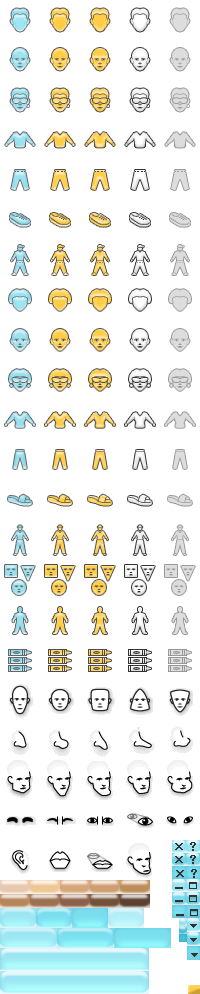
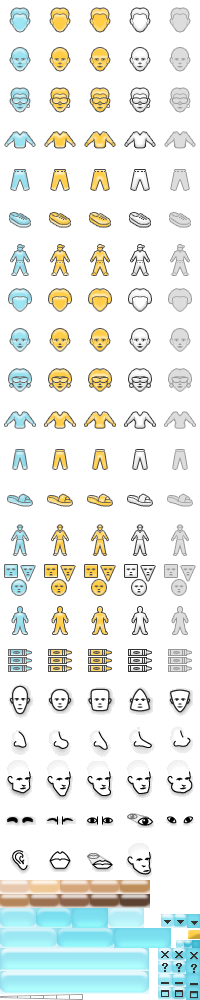
Updated sprite

Changed region(s): [[0.0, 0.0312, 1.0, 1.0]]

diff --git a/Resources/changeme/changeme.css b/Resources/changeme/changeme.css
@@ -82,55 +82,46 @@ body {
 }
 
 .changeme .titlebar .buttons .button {
-  display:none;
+  display:inline-block;
   margin-left:1px;
   width:14px;
   height:13px;
   border:1px solid #666;
   border-radius:3px;
   background-image:url(changeme.png);
+  background-position-x:-158px;
   z-index:2;
 }
 
 .changeme .titlebar .buttons .button[data-id="close"] {
-  display:inline-block;
-  background-position:-172px -840px;
-
+  background-position-y:-948px;
 }
 
 .changeme .titlebar .buttons .button[data-id="help"] {
-  display:inline-block;
-  background-position:-186px -840px;
+  background-position-y:-961px;
+}
+
+.changeme .titlebar .buttons .button[data-id="bar"],
+.changeme .titlebar .buttons .button[data-id="full"] {
+  display:none;
 }
 
 .changeme[data-state="full"] .titlebar .buttons .button[data-id="bar"] {
   display:inline-block;
-  background-position:-172px -879px;
+  background-position-y:-974px;;
 }
 
 .changeme[data-state="bar"] .titlebar .buttons .button[data-id="full"] {
   display:inline-block;
-  background-position:-186px -879px;
+  background-position-y:-987px;
 }
 
-.changeme .titlebar .buttons .button:hover[data-id="close"],
-.changeme .titlebar .buttons .button:hover[data-id="help"] {
-  background-position-y:-853px;
+.changeme .titlebar .buttons .button:hover {
+  background-position-x:-172px;
 }
 
-.changeme .titlebar .buttons .button:hover:active[data-id="close"],
-.changeme .titlebar .buttons .button:hover:active[data-id="help"] {
-  background-position-y:-866px;
-}
-
-.changeme .titlebar .buttons .button:hover[data-id="bar"],
-.changeme .titlebar .buttons .button:hover[data-id="full"] {
-  background-position-y:-892px;
-}
-
-.changeme .titlebar .buttons .button:hover:active[data-id="bar"],
-.changeme .titlebar .buttons .button:hover:active[data-id="full"] {
-  background-position-y:-905px;
+.changeme .titlebar .buttons .button:hover:active {
+  background-position-x:-186px;
 }
 
 .areas {
@@ -293,7 +284,7 @@ body {
   width:12px;
   height:9px;
   background-image:url(changeme.png);
-  background-position:-188px -985px;
+  background-position:-188px -930px;
   border:1px solid #333;
   border-top-left-radius:3px;
   border-bottom-left-radius:3px;
